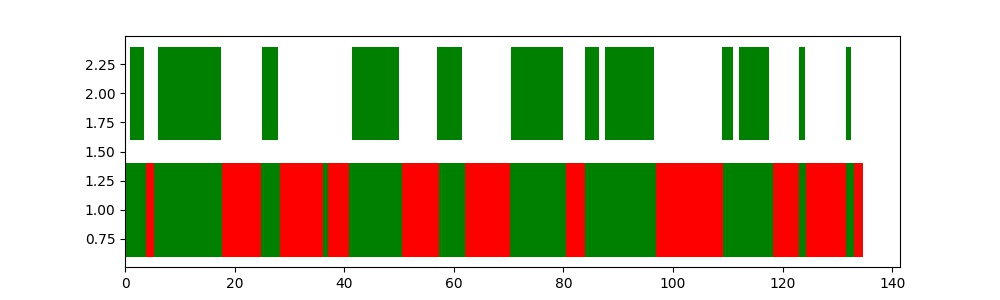
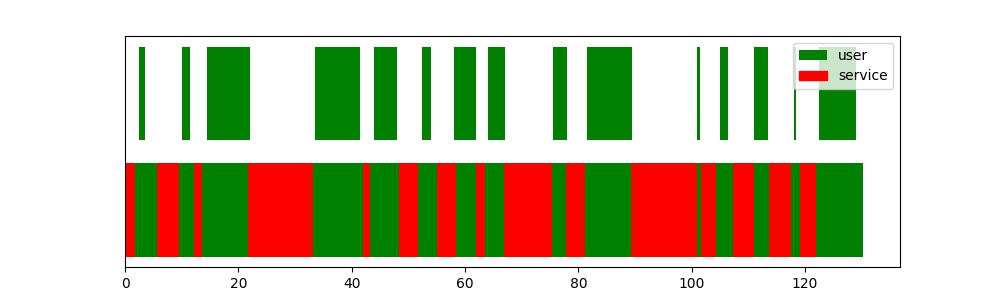
add legend

diff --git a/exp.py b/exp.py
@@ -6,6 +6,7 @@ from scipy.io import wavfile
 
 def plot():
 
+ 
     A = generate_mix()
     B = segment('train_A.mdl', 'mix.wav')
     plt.figure(figsize=(10, 3))
@@ -18,7 +19,15 @@ def plot():
     for i in range(len(A)):
         idx = len(A)-i-1
         plt.barh(1, A[idx][1], color='r' if A[idx][2] == 'A' else 'g')
+    
+    plt.legend(("user","service"))
 
+    ax = plt.gca()
+    plt.setp( ax.get_yticklabels(), visible=False)
+    ax.yaxis.set_ticks_position('none') 
+    leg = ax.get_legend()
+    leg.legendHandles[1].set_color('red')
+    
     plt.savefig("demo.jpg") 
 
 if __name__ == '__main__':
